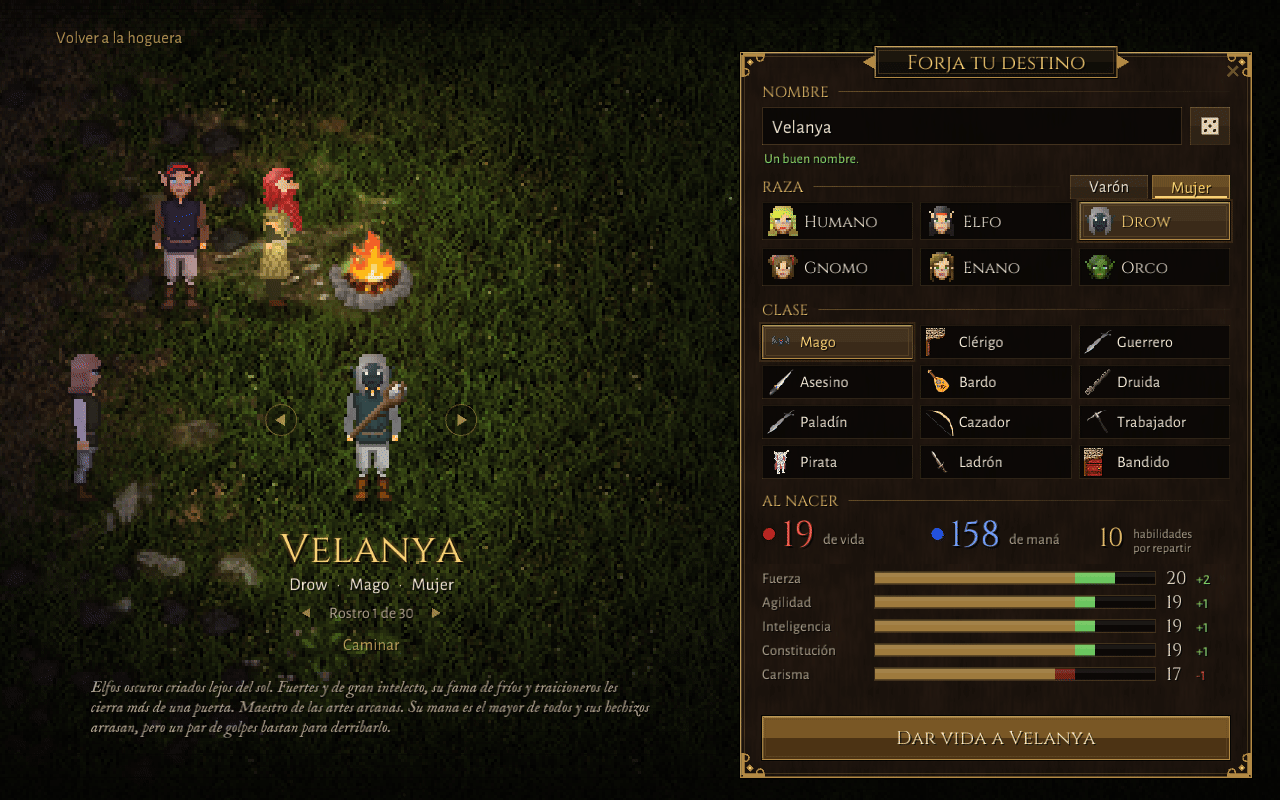
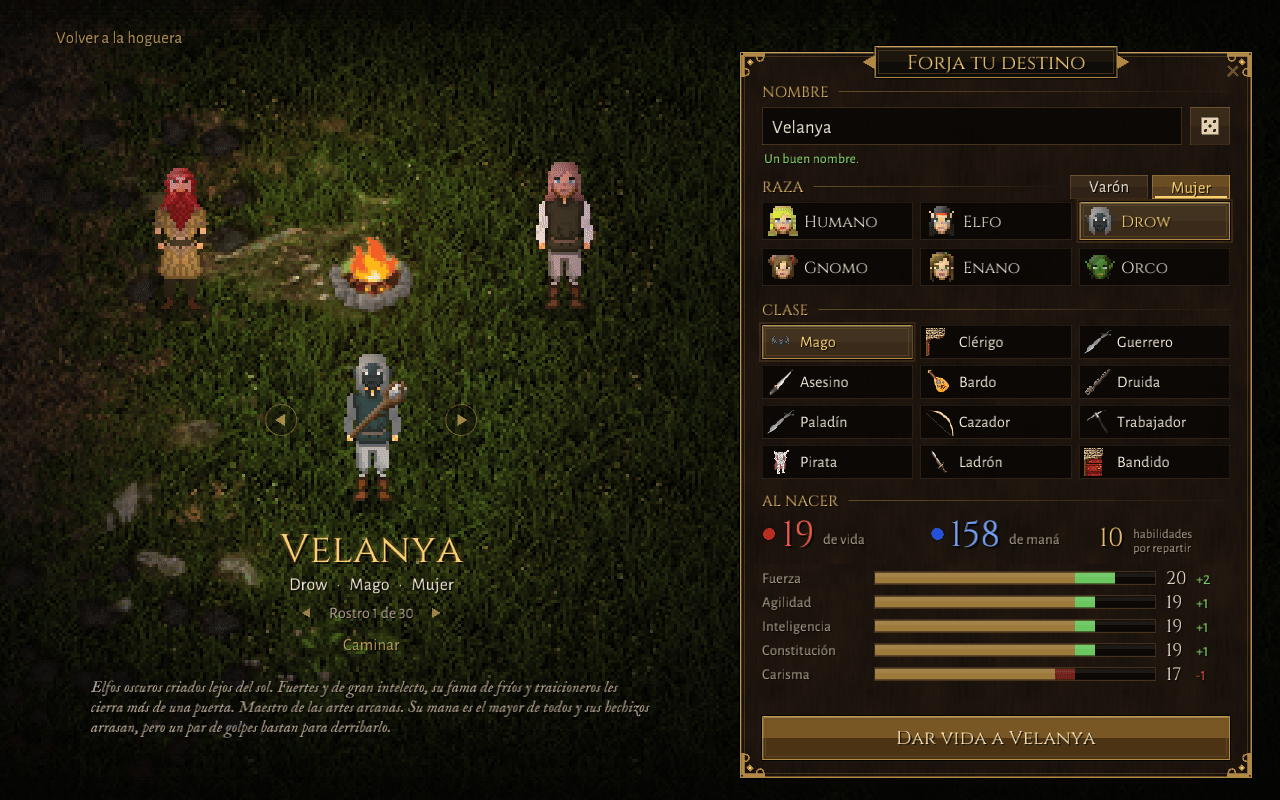
Numic AO cuenta: no pisar particulas/musica al entrar al mundo, errores en humano en hoguera y creacion, destello del ritual visible, mapa desde assets.root

diff --git a/crates/client/src/ui/account.rs b/crates/client/src/ui/account.rs
@@ -199,6 +199,7 @@ impl AccountUi {
         if let (Some(p), None) = (had, &self.flow.pending) {
             self.answered(&p, game);
         }
+        self.scene.hold_fx = self.flow.pending == Some(Pending::Play) || game.screen == Screen::Game;
         if game.screen == Screen::Game && self.auto.play.is_some() {
             eprintln!("AUTO: entered the world as {:?} on map {:?}", game.me().map(|e| e.name.clone()), game.map.as_ref().map(|m| m.number));
             std::process::exit(0);
@@ -727,6 +728,8 @@ fn stage_camp(st: &mut AccountUi, game: &Game, assets: &Assets, renderer: &mut R
                     e.dir = Dir::Up;
                 }
                 st.scene.burst(renderer, tile_feet(HERO.0, HERO.1) - vec2(0.0, 16.0));
+                // The forging aura goes with it (the hero actor leaves this frame).
+                st.scene.play_fx(renderer, assets, id, RITUAL_FX, 2);
             }
         }
     }
@@ -795,6 +798,7 @@ pub fn characters(ui: &mut Ui, game: &mut Game, assets: &mut Assets, renderer: &
         } else {
             ui.focus = None;
         }
+        forge_flash(st);
         st.scene.draw_black();
         st.end(game, "characters");
     });
@@ -901,7 +905,10 @@ fn characters_screen(st: &mut AccountUi, ui: &mut Ui, game: &mut Game) {
     // ---- header
     text_centered_with(FontKind::Title, "La hoguera", sw / 2.0, 46.0 * u, 28.0 * u, GOLD_BRIGHT);
     theme::divider(sw / 2.0, 62.0 * u, 260.0 * u, u);
-    text_centered_with(FontKind::NarrativeItalic, &format!("{n} de {MAX_CHARACTERS} viajeros esperan junto al fuego"), sw / 2.0, 86.0 * u, 16.0 * u, TEXT_DIM);
+    // With a back row the names reach the header: the count line steps aside.
+    if n <= 5 {
+        text_centered_with(FontKind::NarrativeItalic, &format!("{n} de {MAX_CHARACTERS} viajeros esperan junto al fuego"), sw / 2.0, 86.0 * u, 16.0 * u, TEXT_DIM);
+    }
     if !st.user.is_empty() {
         text_with(FontKind::Body, "CUENTA", 28.0 * u, 36.0 * u, 13.0 * u, TEXT_FAINT);
         text_with(FontKind::Title, &st.user, 28.0 * u, 58.0 * u, 18.0 * u, TEXT);
@@ -950,7 +957,7 @@ fn characters_screen(st: &mut AccountUi, ui: &mut Ui, game: &mut Game) {
     }
     text_centered_with(FontKind::Body, "Clic o flechas para elegir   ·   Intro o doble clic para jugar   ·   Supr para borrar", sw / 2.0, sh - 14.0 * u, 13.0 * u, TEXT_FAINT);
     if let Some((msg, ok)) = st.flow.notice.clone() {
-        text_centered_with(FontKind::Body, &msg, sw / 2.0, base - 140.0 * u - 22.0 * u, 17.0 * u, if ok { GOOD } else { BAD });
+        text_centered_with(FontKind::Body, &humane(&msg), sw / 2.0, base - 140.0 * u - 22.0 * u, 17.0 * u, if ok { GOOD } else { BAD });
     }
 
     // ---- input: clicks in the world and keyboard
@@ -1072,6 +1079,7 @@ pub fn create(ui: &mut Ui, game: &mut Game, assets: &mut Assets, renderer: &mut 
         } else {
             ui.focus = None;
         }
+        forge_flash(st);
         st.scene.draw_black();
         st.end(game, "create");
     });
@@ -1300,7 +1308,10 @@ fn create_screen(st: &mut AccountUi, ui: &mut Ui, game: &mut Game, assets: &mut 
         tip = vec!["Nombre al azar".into()];
     }
     let check = client_core::p3::account::check_character_name(&st.form.name);
+    // The server's refusal of the name (taken...) goes here, under the field.
+    let name_refused = st.flow.notice.as_ref().filter(|n| !n.1 && n.0.to_lowercase().contains("nombre")).map(|n| humane(&n.0));
     let (msg, mc) = match (&check, st.form.name.is_empty()) {
+        _ if name_refused.is_some() => (name_refused.clone().unwrap_or_default(), BAD),
         (_, true) => ("Entre 3 y 16 letras, números o guion bajo.".to_string(), TEXT_FAINT),
         (Ok(()), _) => ("Un buen nombre.".to_string(), GOOD),
         (Err(e), _) => (e.to_string(), BAD),
@@ -1431,11 +1442,11 @@ fn create_screen(st: &mut AccountUi, ui: &mut Ui, game: &mut Game, assets: &mut 
     let br = Rect::new(px0, panel.bottom() - 62.0 * u, pw0, 44.0 * u);
     let label = if name_ok { format!("Dar vida a {}", st.form.name) } else { "Dale un nombre para empezar".to_string() };
     let go = button_kind(br, &label, Kind::Primary, name_ok && !busy, u) || (enter && name_ok && !busy);
-    if let Some((msg, ok)) = st.flow.notice.clone() {
+    if let Some((msg, ok)) = st.flow.notice.clone().filter(|n| !n.0.to_lowercase().contains("nombre")) {
         let c = if ok { GOOD } else { BAD };
         let shake = ((get_time() - st.notice_at) as f32 / 0.35).min(1.0);
         let dx = (t * 60.0).sin() * 4.0 * u * (1.0 - shake);
-        text_centered_with(FontKind::Body, &msg, br.x + br.w / 2.0 + dx, br.y - 8.0 * u, 15.0 * u, c);
+        text_centered_with(FontKind::Body, &humane(&msg), br.x + br.w / 2.0 + dx, br.y - 8.0 * u, 15.0 * u, c);
     }
     if go {
         // The ritual: light and the meditation aura, then the request (purely visual: the
@@ -1449,17 +1460,10 @@ fn create_screen(st: &mut AccountUi, ui: &mut Ui, game: &mut Game, assets: &mut 
         st.select_name = Some(name.clone());
         st.flow.create_character(game, &name, race, class, gender, head);
     }
-    if let Some(t0) = st.forging {
-        let k = (get_time() - t0) as f32;
-        let flash = (1.0 - k / 0.6).clamp(0.0, 1.0);
-        if flash > 0.0 {
-            draw_rectangle(0.0, 0.0, sw, sh, Color::new(1.0, 0.92, 0.75, flash * flash * 0.5));
-        }
-        if !st.flow.busy() && st.flow.notice.as_ref().is_some_and(|n| !n.1) {
-            // Refused (name taken...): the ritual stops.
-            st.forging = None;
-            st.scene.stop_fx(renderer, HERO_ID);
-        }
+    if st.forging.is_some() && !st.flow.busy() && st.flow.notice.as_ref().is_some_and(|n| !n.1) {
+        // Refused (name taken...): the ritual stops.
+        st.forging = None;
+        st.scene.stop_fx(renderer, HERO_ID);
     }
 
     if st.flow.busy() {
@@ -1476,6 +1480,17 @@ fn class_label(id: u8, name: &str) -> &str {
         7 => "Paladín",
         11 => "Ladrón",
         _ => name,
+    }
+}
+
+/// The white-gold flash of the forging ritual (drawn by both camp screens, since the
+/// server answers within a frame or two and the selector takes over).
+fn forge_flash(st: &AccountUi) {
+    let Some(t0) = st.forging else { return };
+    let k = (get_time() - t0) as f32;
+    let flash = (1.0 - k / 0.9).clamp(0.0, 1.0);
+    if flash > 0.0 {
+        draw_rectangle(0.0, 0.0, screen_width(), screen_height(), Color::new(1.0, 0.92, 0.75, flash * flash * 0.55));
     }
 }
 

diff --git a/crates/client/src/ui/scene.rs b/crates/client/src/ui/scene.rs
@@ -125,6 +125,8 @@ pub struct Scene {
     /// Draw time statistics (ms), for the report.
     perf: (f64, u32),
     born: f64,
+    /// Set by the screens while a Play request is out (see `sync_fx`).
+    pub hold_fx: bool,
     rng: u32,
 }
 
@@ -177,6 +179,7 @@ impl Scene {
             scout,
             perf: (0.0, 0),
             born: get_time(),
+            hold_fx: false,
             rng: 0x2545_F491,
         }
     }
@@ -190,6 +193,7 @@ impl Scene {
         if self.loaded.is_some() {
             return;
         }
+        self.recursos = assets.root.clone();
         match AoMap::load(&self.recursos, SCENE_MAP) {
             Ok(m) => {
                 assets.preload_map(&m);
@@ -528,6 +532,10 @@ impl Scene {
     /// replaces `fx.map_groups` when it enters a map, so this checks a fingerprint.
     fn sync_fx(&mut self, fx: &mut Fx, assets: &mut Assets) {
         fx.ensure_official(&assets.root);
+        // Entering the world: the game's map owns the particles and the music now.
+        if self.hold_fx {
+            return;
+        }
         let print = (fx.map_groups.len(), fx.map_groups.first().map(|g| g.at).unwrap_or(Vec2::NAN));
         if self.fx_print.is_some_and(|p| p.0 == print.0 && (p.1 == print.1 || p.1.is_nan() && print.1.is_nan())) {
             return;
